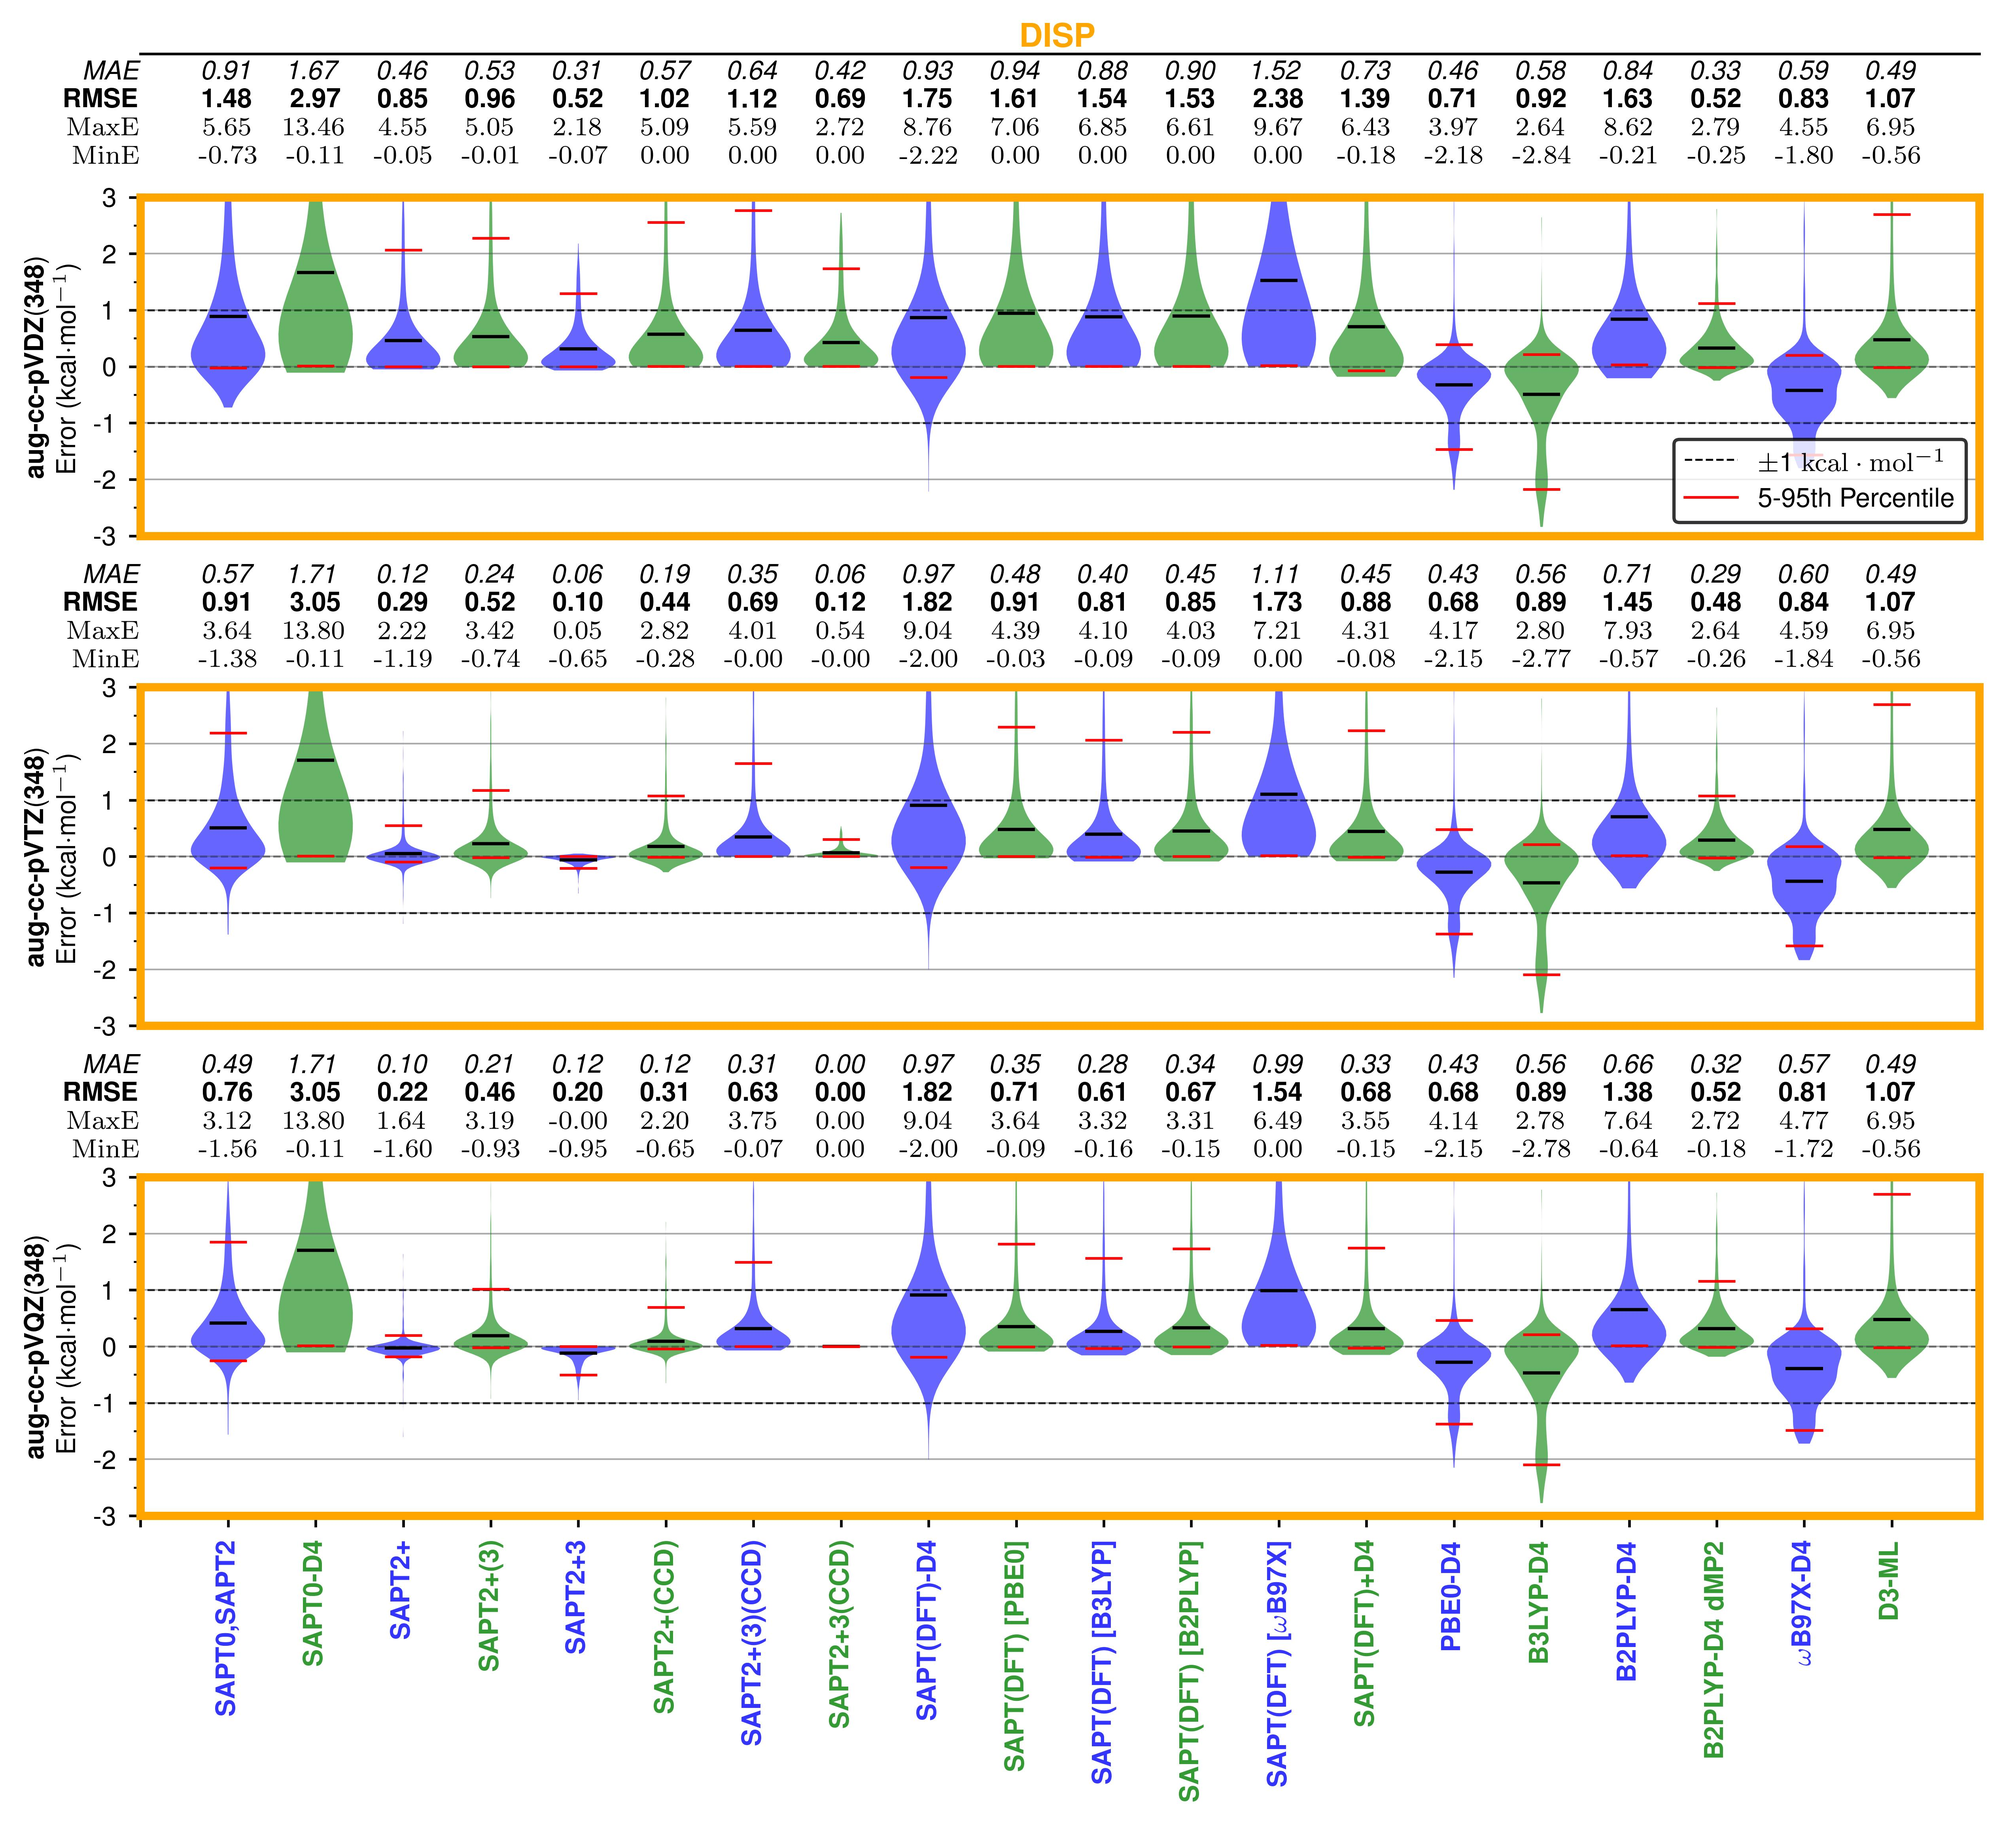
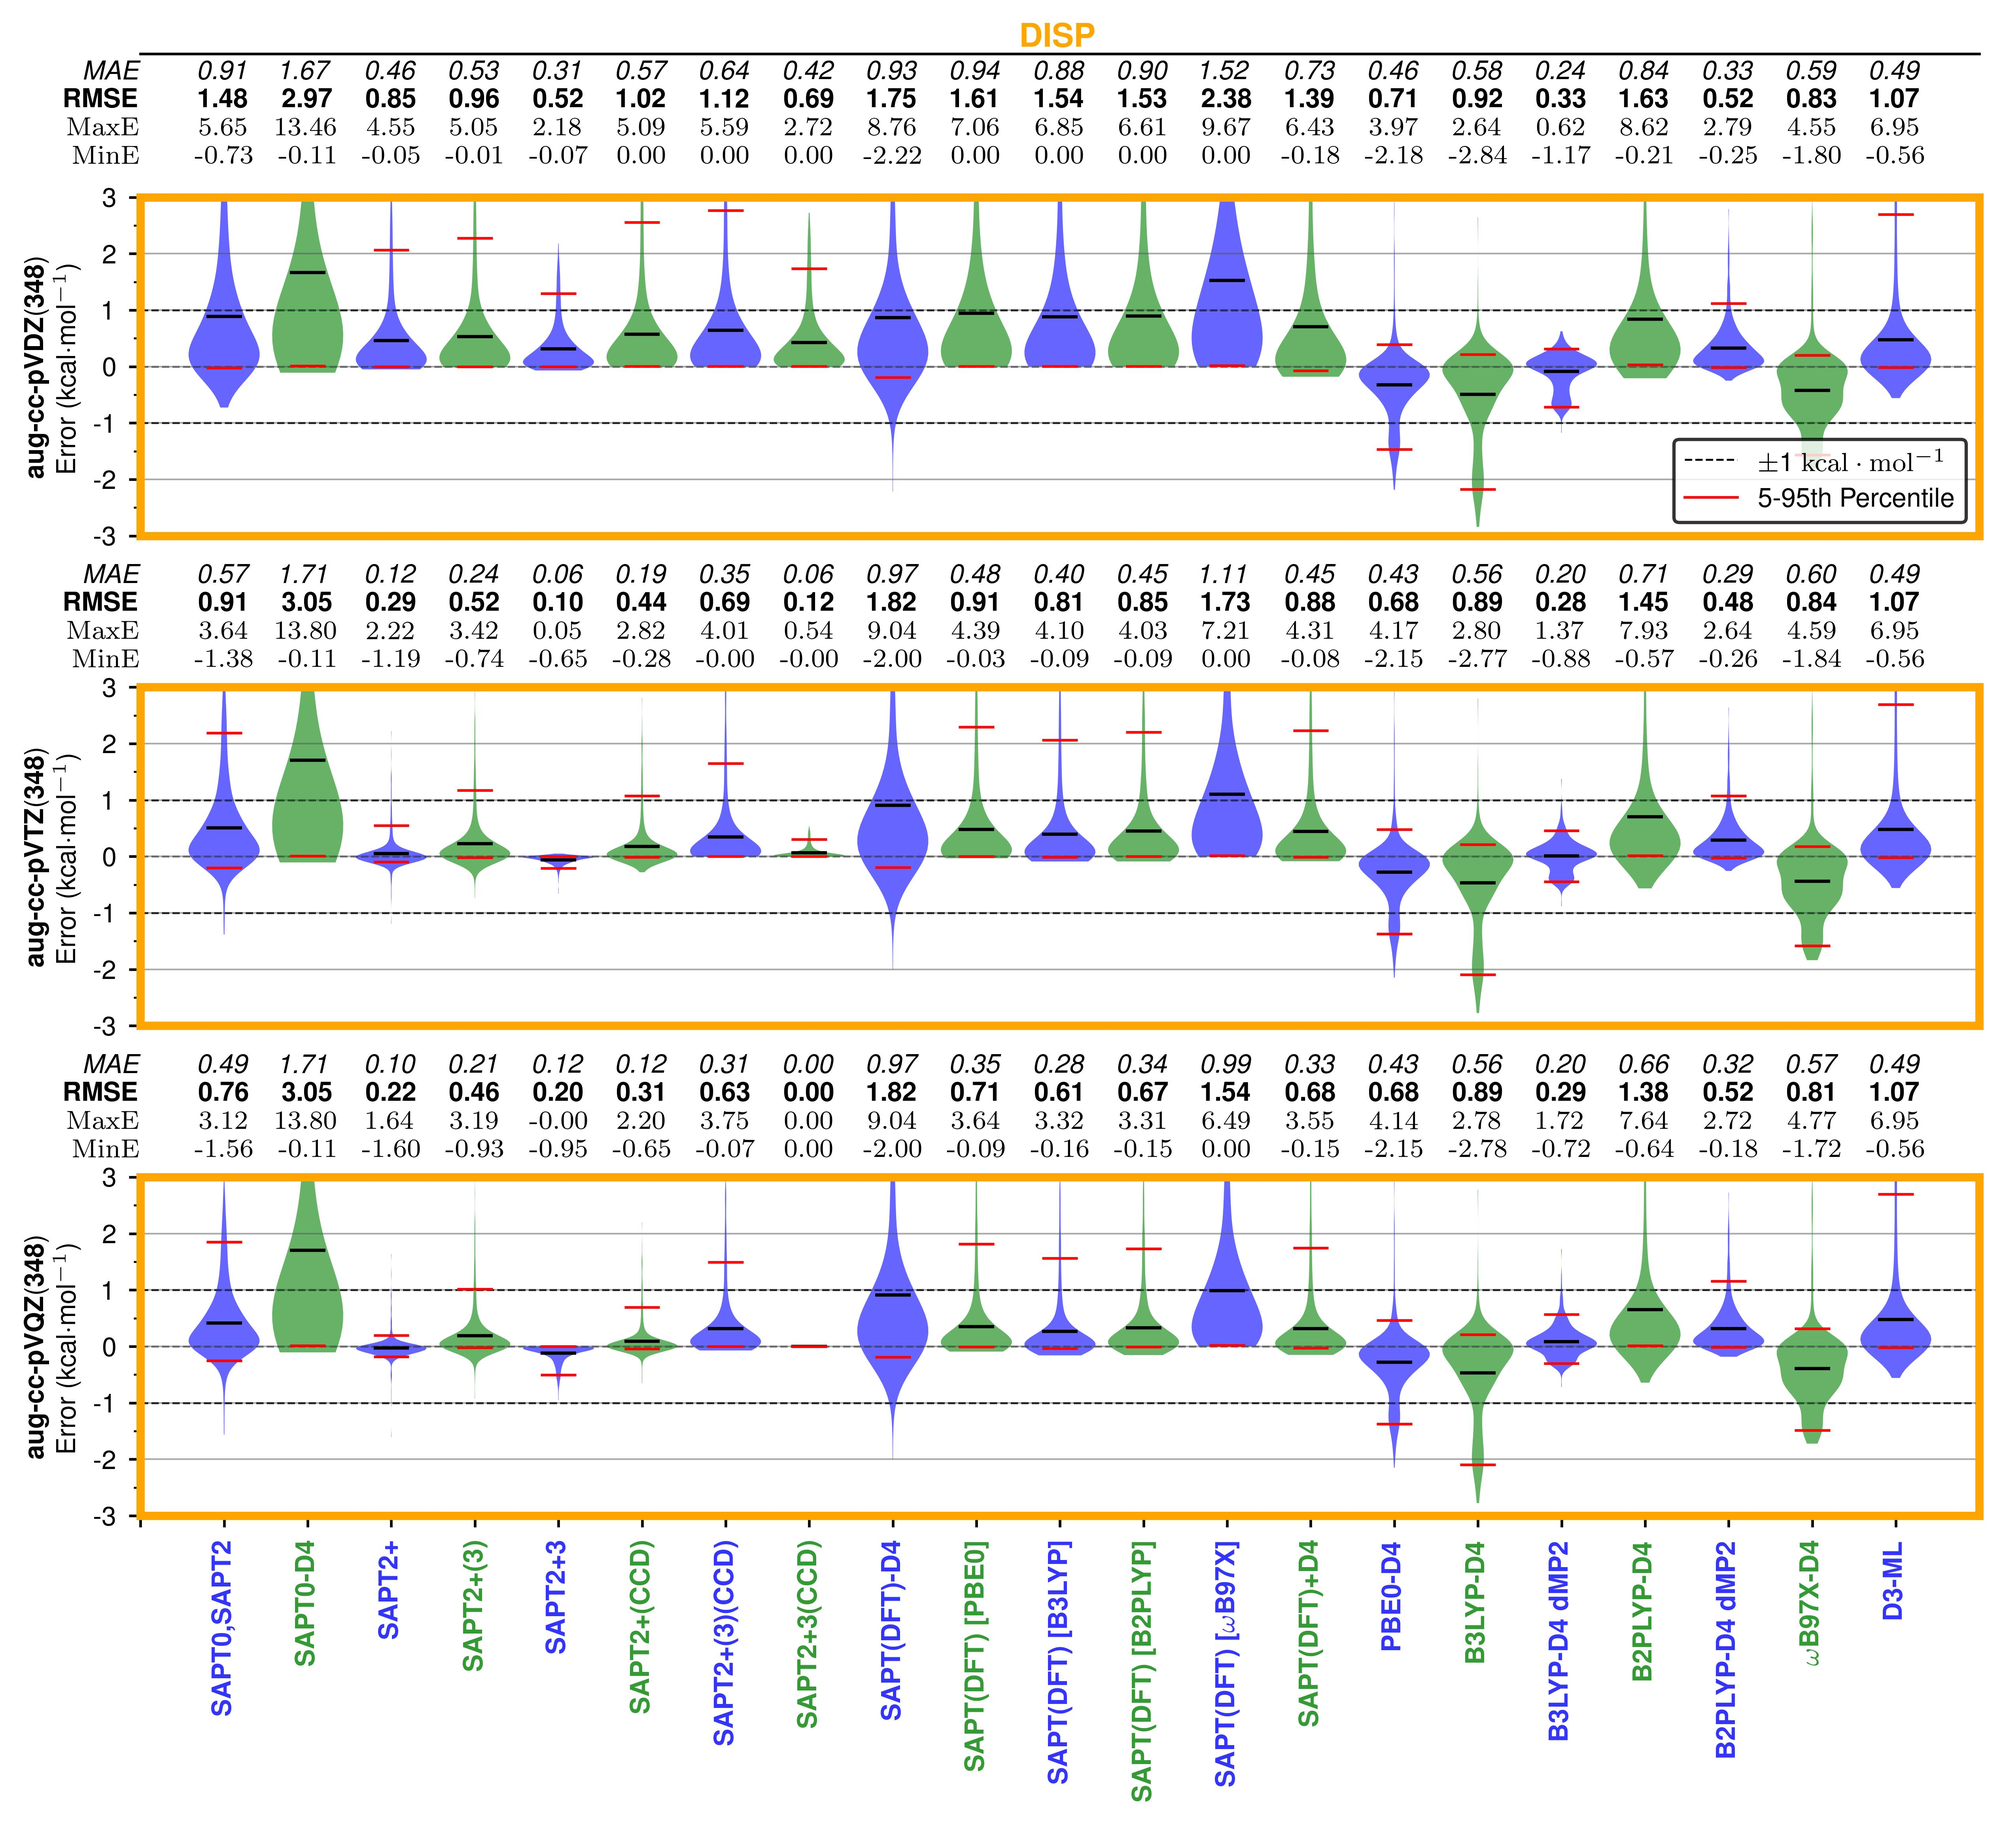
b3lyp dMP2 results

diff --git a/src/plotting.py b/src/plotting.py
@@ -5154,43 +5154,49 @@ def prep_saptdft_components(df, functional, basis_set):
         else np.nan,
  axis=1
     )
-    if functional == 'b2plyp':
-        # df[f'SAPT MP2(2) ENERGY {basis_set}'] = df[f'SAPT MP2(2) ENERGY {basis_set}'] * h2kcalmol
-        # print("B2PLYP diff")
-        print(df[[f'MP2 IE {basis_set}', f"SAPT_DFT_{functional}_{basis_set}", f"SAPT DISP20 ENERGY {basis_set}"]])
-        print(
-                df[f"MP2 IE {basis_set}"],
-                df[f"SAPT_DFT_{functional}_{basis_set}"],
-                df[f'SAPT DISP20 ENERGY {basis_set}'],
-                df[f'SAPT EXCH-DISP20 ENERGY {basis_set}'],
-                df[f'SAPT HF(2) ENERGY {basis_set}'],
-        )
-        df[f"SAPT(DFT) [{functional.upper()}] dMP2 ENERGY {basis_set}"] = df.apply(
-            lambda r:
+    # if functional == 'b2plyp':
+    #     # df[f'SAPT MP2(2) ENERGY {basis_set}'] = df[f'SAPT MP2(2) ENERGY {basis_set}'] * h2kcalmol
+    #     # print("B2PLYP diff")
+    #     print(df[[f'MP2 IE {basis_set}', f"SAPT_DFT_{functional}_{basis_set}", f"SAPT DISP20 ENERGY {basis_set}"]])
+    #     print(
+    #             df[f"MP2 IE {basis_set}"],
+    #             df[f"SAPT_DFT_{functional}_{basis_set}"],
+    #             df[f'SAPT DISP20 ENERGY {basis_set}'],
+    #             df[f'SAPT EXCH-DISP20 ENERGY {basis_set}'],
+    #             df[f'SAPT HF(2) ENERGY {basis_set}'],
+    #     )
+    df[f"SAPT(DFT) [{functional.upper()}] dMP2 ENERGY {basis_set}"] = df.apply(
+        lambda r:
+        (
+            # need to define dMP2 as dHF-like but with DFT non-disp
+            # components and SAPT0 disp components
+            r[f'MP2 IE {basis_set}'] -
             (
-                # need to define dMP2 as dHF-like but with DFT non-disp
-                # components and SAPT0 disp components
-                r[f'MP2 IE {basis_set}'] -
-                (
-                    r[f"SAPT_DFT_{functional}_{basis_set}"][1]
-                    + r[f"SAPT_DFT_{functional}_{basis_set}"][2]
-                    + r[f"SAPT_DFT_{functional}_{basis_set}"][3]
-                    + r[f'SAPT DISP20 ENERGY {basis_set}']
-                    + r[f'SAPT EXCH-DISP20 ENERGY {basis_set}']
-                 )
+                r[f"SAPT_DFT_{functional}_{basis_set}"][1]
+                + r[f"SAPT_DFT_{functional}_{basis_set}"][2]
+                + r[f"SAPT_DFT_{functional}_{basis_set}"][3]
+                + r[f'SAPT DISP20 ENERGY {basis_set}']
+                + r[f'SAPT EXCH-DISP20 ENERGY {basis_set}']
+             )
 
-            ) * h2kcalmol
-            if r[f"SAPT_DFT_D4_{functional}_{basis_set}_total"] and
-            r[f"SAPT_DFT_{functional}_{basis_set}"]
-            else np.nan, axis=1
-        )
-
-        print(df[[f"SAPT(DFT) [{functional.upper()}] dMP2 ENERGY {basis_set}", f"SAPT HF(2) ENERGY {basis_set}"]].describe())
-        print(df[[f"SAPT(DFT) [{functional.upper()}] dMP2 ENERGY {basis_set}", f"SAPT HF(2) ENERGY {basis_set}"]])
-
+        ) * h2kcalmol
+        if r[f"SAPT_DFT_D4_{functional}_{basis_set}_total"] and
+        r[f"SAPT_DFT_{functional}_{basis_set}"]
+        else np.nan, axis=1
+    )
+    if functional == 'b2plyp':
         df[f"SAPT(DFT) [{functional.upper()}] dMP2 IND ENERGY {basis_set}"] = df.apply(
             lambda r: r[f"SAPT_DFT_{functional}_{basis_set}"][3]
                 # + r[f'SAPT MP2(2) ENERGY {basis_set}'] 
+                + r[f"SAPT(DFT) [{functional.upper()}] dMP2 ENERGY {basis_set}"] / h2kcalmol
+            if r[f"SAPT_DFT_D4_{functional}_{basis_set}_total"] and
+            r[f"SAPT_DFT_{functional}_{basis_set}"]
+            else np.nan,
+            axis=1
+        )
+    else:
+        df[f"SAPT(DFT) [{functional.upper()}] dMP2 EXCH ENERGY {basis_set}"] = df.apply(
+            lambda r: r[f"SAPT_DFT_{functional}_{basis_set}"][2]
                 + r[f"SAPT(DFT) [{functional.upper()}] dMP2 ENERGY {basis_set}"] / h2kcalmol
             if r[f"SAPT_DFT_D4_{functional}_{basis_set}_total"] and
             r[f"SAPT_DFT_{functional}_{basis_set}"]
@@ -5212,23 +5218,23 @@ def prep_saptdft_components(df, functional, basis_set):
         else np.nan,
  axis=1
     )
-    if functional == 'b2plyp':
-        print("B2PLYP diff")
-        df[f"{functional.upper()}-D4 dMP2 DISP ENERGY {basis_set}"] = df.apply(
-            lambda r: (
-                r[f"SAPT_DFT_{functional}_{basis_set}_D4_IE"]
-                + r[f"SAPT_DFT_{functional}_{basis_set}_dDFT"]
-                - r[f"SAPT_DFT_{functional}_{basis_set}_dHF"]
-                # - r[f'SAPT MP2(2) ENERGY {basis_set}'] * h2kcalmol
-                - r[f"SAPT(DFT) [{functional.upper()}] dMP2 ENERGY {basis_set}"]
+    # if functional == 'b2plyp':
+        # print("B2PLYP diff")
+    df[f"{functional.upper()}-D4 dMP2 DISP ENERGY {basis_set}"] = df.apply(
+        lambda r: (
+            r[f"SAPT_DFT_{functional}_{basis_set}_D4_IE"]
+            + r[f"SAPT_DFT_{functional}_{basis_set}_dDFT"]
+            - r[f"SAPT_DFT_{functional}_{basis_set}_dHF"]
+            # - r[f'SAPT MP2(2) ENERGY {basis_set}'] * h2kcalmol
+            - r[f"SAPT(DFT) [{functional.upper()}] dMP2 ENERGY {basis_set}"]
 
-            )
-            / h2kcalmol
-            if r[f"SAPT_DFT_D4_{functional}_{basis_set}_total"] and
-            r[f"SAPT_DFT_{functional}_{basis_set}"]
-            else np.nan,
-            axis=1,
         )
+        / h2kcalmol
+        if r[f"SAPT_DFT_D4_{functional}_{basis_set}_total"] and
+        r[f"SAPT_DFT_{functional}_{basis_set}"]
+        else np.nan,
+        axis=1,
+    )
     # else:
     df[f"{functional.upper()}-D4 DISP ENERGY {basis_set}"] = df.apply(
         lambda r: (
@@ -7527,6 +7533,7 @@ def violin_plots_multi_components_subset(df, limit_to_column_not_nan=None):
         "SAPT2 EXCH ENERGY",
         "SAPT(DFT) [PBE0] EXCH ENERGY",
         "SAPT(DFT) [B3LYP] EXCH ENERGY",
+        "SAPT(DFT) [B3LYP] dMP2 EXCH ENERGY",
         "SAPT(DFT) [B2PLYP] EXCH ENERGY",
         "SAPT(DFT) [WB97X] EXCH ENERGY",
         "SAPT0 IND ENERGY",
@@ -7536,6 +7543,7 @@ def violin_plots_multi_components_subset(df, limit_to_column_not_nan=None):
         "SAPT2+3DMP2 IND ENERGY",
         "SAPT(DFT) [PBE0] IND ENERGY",
         "SAPT(DFT) [B3LYP] IND ENERGY",
+        # "SAPT(DFT) [B3LYP] dMP2 IND ENERGY",
         "SAPT(DFT) [B2PLYP] IND ENERGY",
         "SAPT(DFT) [B2PLYP] dMP2 IND ENERGY",
         "SAPT(DFT) [WB97X] IND ENERGY",
@@ -7551,6 +7559,7 @@ def violin_plots_multi_components_subset(df, limit_to_column_not_nan=None):
         "SAPT0-D4 DISP ENERGY",
         "PBE0-D4 DISP ENERGY",
         "B3LYP-D4 DISP ENERGY",
+        "B3LYP-D4 dMP2 DISP ENERGY",
         "B2PLYP-D4 DISP ENERGY",
         "B2PLYP-D4 dMP2 DISP ENERGY",
         "WB97X-D4 DISP ENERGY",
@@ -7680,6 +7689,9 @@ def violin_plots_multi_components_subset(df, limit_to_column_not_nan=None):
             "SAPT(DFT) [B3LYP]": "SAPT(DFT) [B3LYP] EXCH ENERGY Error",
         },
         {
+            "SAPT(DFT) [B3LYP]": "SAPT(DFT) [B3LYP] dMP2 EXCH ENERGY Error",
+        },
+        {
             "SAPT(DFT) [B2PLYP]": "SAPT(DFT) [B2PLYP] EXCH ENERGY Error",
         },
         {
@@ -7709,6 +7721,9 @@ def violin_plots_multi_components_subset(df, limit_to_column_not_nan=None):
         {
             "SAPT(DFT) [B3LYP]": "SAPT(DFT) [B3LYP] IND ENERGY Error",
         },
+        # {
+        #     "SAPT(DFT) [B3LYP]": "SAPT(DFT) [B3LYP] dMP2 IND ENERGY Error",
+        # },
         {
             "SAPT(DFT) [B2PLYP]": "SAPT(DFT) [B2PLYP] IND ENERGY Error",
         },
@@ -7759,6 +7774,9 @@ def violin_plots_multi_components_subset(df, limit_to_column_not_nan=None):
         },
         {
             "B3LYP-D4": "B3LYP-D4 DISP ENERGY Error",
+        },
+        {
+            "B3LYP-D4": "B3LYP-D4 dMP2 DISP ENERGY Error",
         },
         {
             "B2PLYP-D4": "B2PLYP-D4 DISP ENERGY Error",
@@ -7877,6 +7895,7 @@ def violin_plots_multi_components_subset(df, limit_to_column_not_nan=None):
             "SAPT2,SAPT2+,\\\\SAPT2+(3),SAPT2+3": "SAPT2 EXCH ENERGY Error",
             "SAPT(DFT) [PBE0]": "SAPT(DFT) [PBE0] EXCH ENERGY Error",
             "SAPT(DFT) [B3LYP]": "SAPT(DFT) [B3LYP] EXCH ENERGY Error",
+            "SAPT(DFT) [B3LYP] dMP2": "SAPT(DFT) [B3LYP] dMP2 EXCH ENERGY Error",
             "SAPT(DFT) [B2PLYP]": "SAPT(DFT) [B2PLYP] EXCH ENERGY Error",
             "SAPT(DFT) [WB97X]": "SAPT(DFT) [WB97X] EXCH ENERGY Error",
         },
@@ -7890,6 +7909,7 @@ def violin_plots_multi_components_subset(df, limit_to_column_not_nan=None):
             "SAPT2+DMP2,\\\\SAPT2+(3)DMP2": "SAPT2+DMP2 IND ENERGY Error",
             "SAPT(DFT) [PBE0]": "SAPT(DFT) [PBE0] IND ENERGY Error",
             "SAPT(DFT) [B3LYP]": "SAPT(DFT) [B3LYP] IND ENERGY Error",
+            # "SAPT(DFT) [B3LYP] dMP2": "SAPT(DFT) [B3LYP] dMP2 IND ENERGY Error",
             "SAPT(DFT) [B2PLYP]": "SAPT(DFT) [B2PLYP] IND ENERGY Error",
             "SAPT(DFT) [B2PLYP] dMP2": "SAPT(DFT) [B2PLYP] dMP2 IND ENERGY Error",
             "SAPT(DFT) [WB97X]": "SAPT(DFT) [WB97X] IND ENERGY Error",
@@ -7931,7 +7951,7 @@ def violin_plots_multi_components_subset(df, limit_to_column_not_nan=None):
             0.4,
             2,
         ],
-        grid_widths = [0.75, 0.65, 1.0],
+        grid_widths = [0.75, 0.75, 1.0],
         # mcure=mcure_labels,
     )
     cdsg_plot.error_statistics.violin_plot_table_multi_SAPT_components(
@@ -7960,6 +7980,7 @@ def violin_plots_multi_components_subset(df, limit_to_column_not_nan=None):
             "SAPT(DFT)+D4": "SAPT(DFT)+D4 DISP ENERGY Error",
             "PBE0-D4": "PBE0-D4 DISP ENERGY Error",
             "B3LYP-D4": "B3LYP-D4 DISP ENERGY Error",
+            "B3LYP-D4 dMP2": "B3LYP-D4 dMP2 DISP ENERGY Error",
             "B2PLYP-D4": "B2PLYP-D4 DISP ENERGY Error",
             "B2PLYP-D4 dMP2": "B2PLYP-D4 dMP2 DISP ENERGY Error",
             "WB97X-D4": "WB97X-D4 DISP ENERGY Error",
